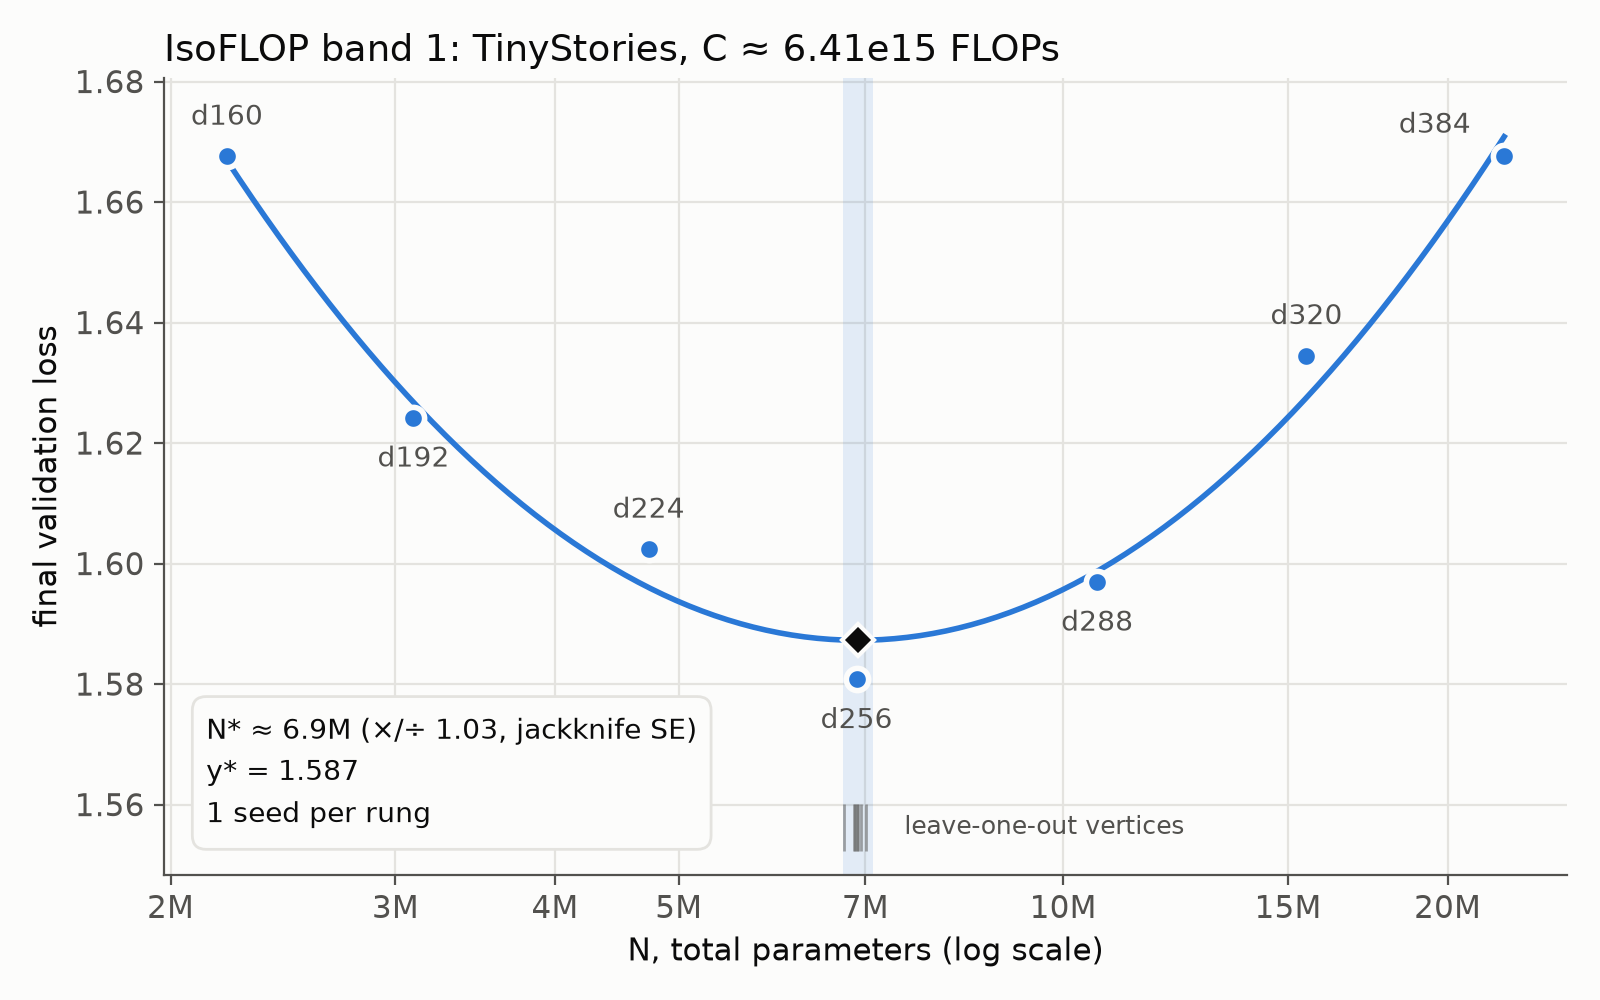
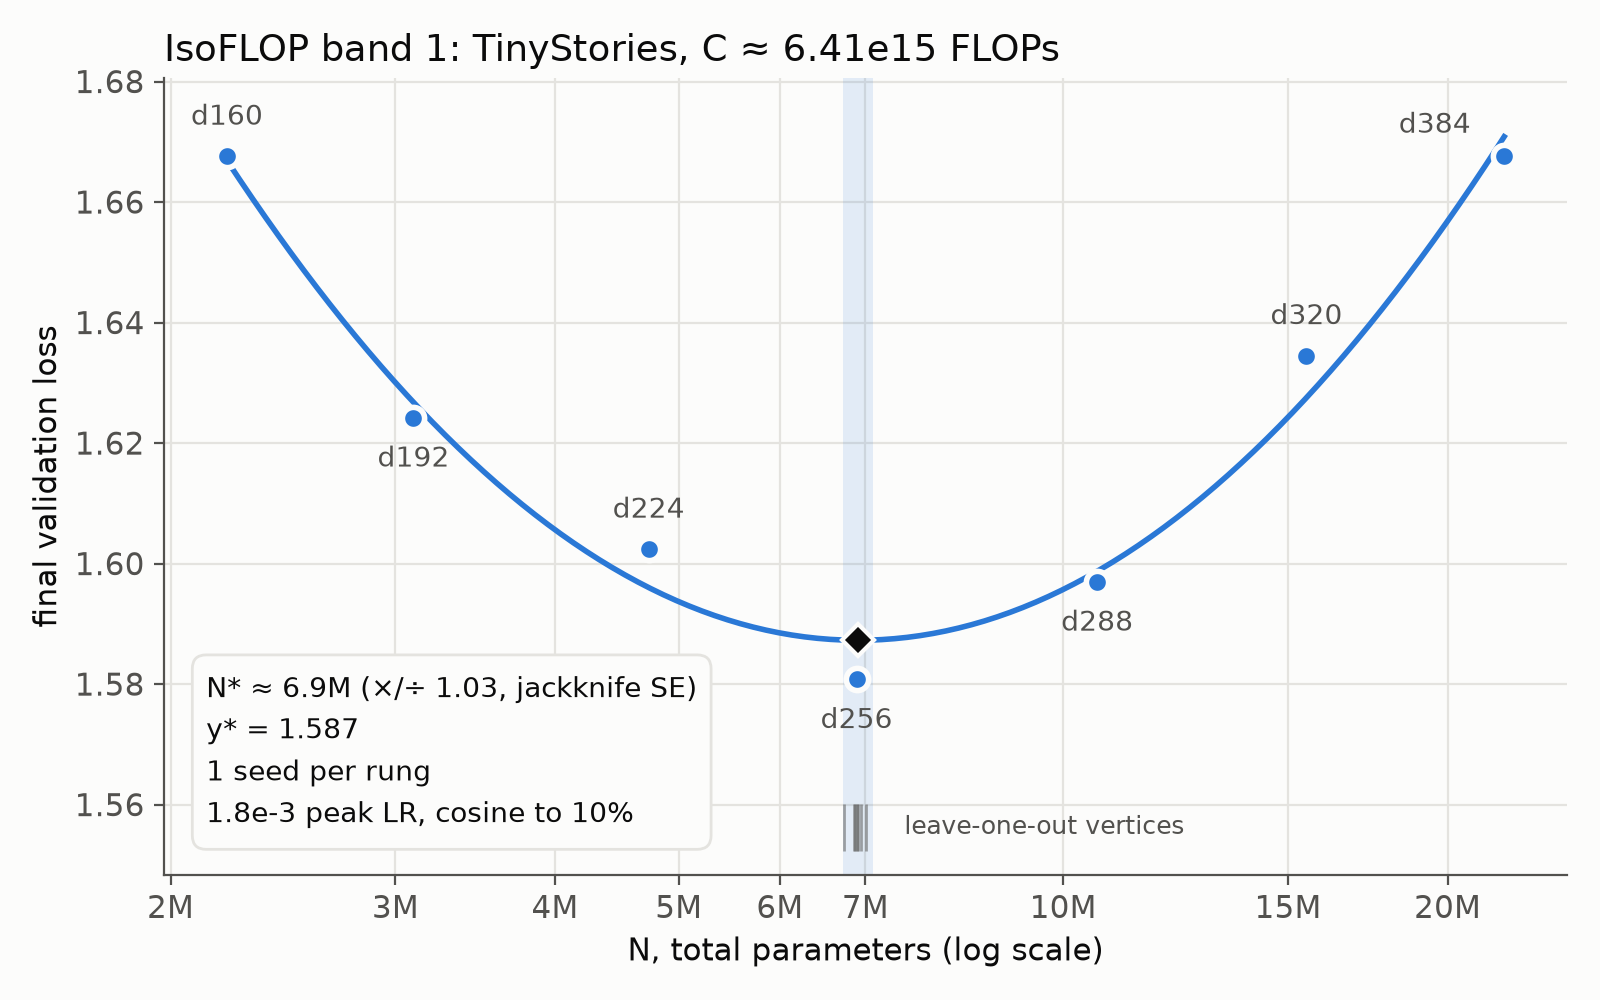
plot: 6M tick; LR schedule in the annotation box

Changed region(s): [[0.125, 0.651, 0.4375, 0.837], [0.4688, 0.899, 0.5, 0.93]]

diff --git a/scripts/plot_band1.py b/scripts/plot_band1.py
@@ -26,16 +26,25 @@ TEXT_SECONDARY = "#52514e"
 GRID = "#e4e3df"
 SURFACE = "#fcfcfb"
 
-N_TICKS_M = (2, 3, 4, 5, 7, 10, 15, 20)  # x ticks, in millions of params
+N_TICKS_M = (2, 3, 4, 5, 6, 7, 10, 15, 20)  # x ticks, in millions of params
 # Rung label offsets in points, clear of the curve and the vertex marker; default
 # is centred above the point
 LABEL_OFFSETS = {192: (0, -10), 256: (0, -10), 288: (0, -10), 384: (-12, 6)}
 
 
-def compute_label(realized_compute: list[float]) -> str:
-    # Every rung's realized C is within 0.01% of the band budget; show 3 sig figs
-    mantissa, exponent = f"{np.mean(realized_compute):.2e}".split("e")
+def sci(value: float, digits: int) -> str:
+    # 6.41e15 rather than 6.41e+15
+    mantissa, exponent = f"{value:.{digits}e}".split("e")
     return f"{mantissa}e{int(exponent)}"
+
+
+def schedule_label(rows: list[dict[str, str]]) -> str:
+    # The LR schedule the fit rows actually ran with; every row must agree
+    schedules = {(float(r["peak_lr"]), float(r["min_lr"])) for r in rows}
+    if len(schedules) != 1:
+        raise ValueError(f"fit rows ran with different LR schedules: {schedules}")
+    ((peak_lr, min_lr),) = schedules
+    return f"{sci(peak_lr, 1)} peak LR, cosine to {min_lr / peak_lr:.0%}"
 
 
 def main() -> None:
@@ -144,7 +153,8 @@ def main() -> None:
         0.05,
         f"N* ≈ {n_star / 1e6:.1f}M (×/÷ {se_factor:.2f}, jackknife SE)\n"
         + f"y* = {fit.y_min:.3f}\n"
-        + "1 seed per rung",
+        + "1 seed per rung\n"
+        + schedule_label(band.rows),
         transform=ax.transAxes,
         ha="left",
         va="bottom",
@@ -169,7 +179,7 @@ def main() -> None:
     ax.set_ylabel("final validation loss")
     realized = [float(row["realized_compute"]) for row in band.rows]
     ax.set_title(
-        f"IsoFLOP band 1: TinyStories, C ≈ {compute_label(realized)} FLOPs",
+        f"IsoFLOP band 1: TinyStories, C ≈ {sci(float(np.mean(realized)), 2)} FLOPs",
         loc="left",
         color=TEXT,
     )
